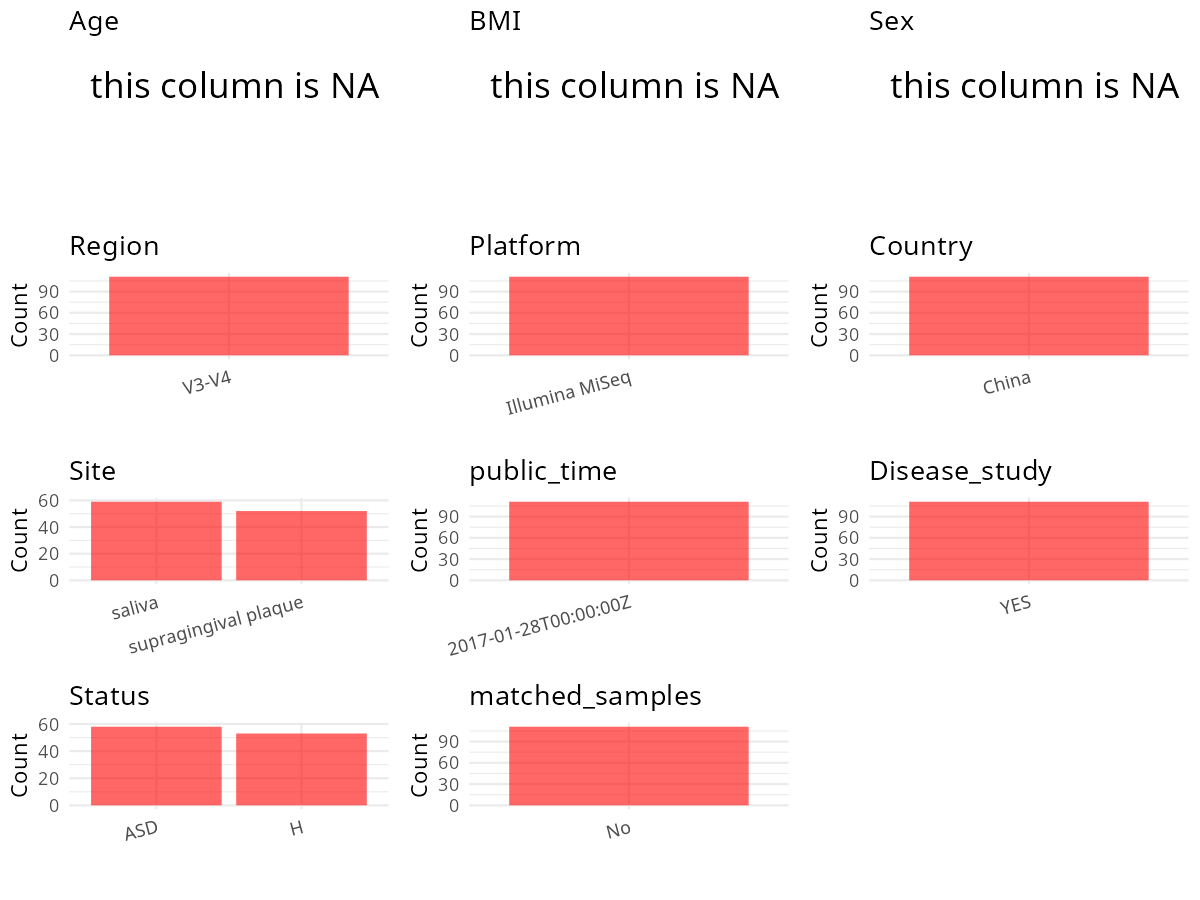
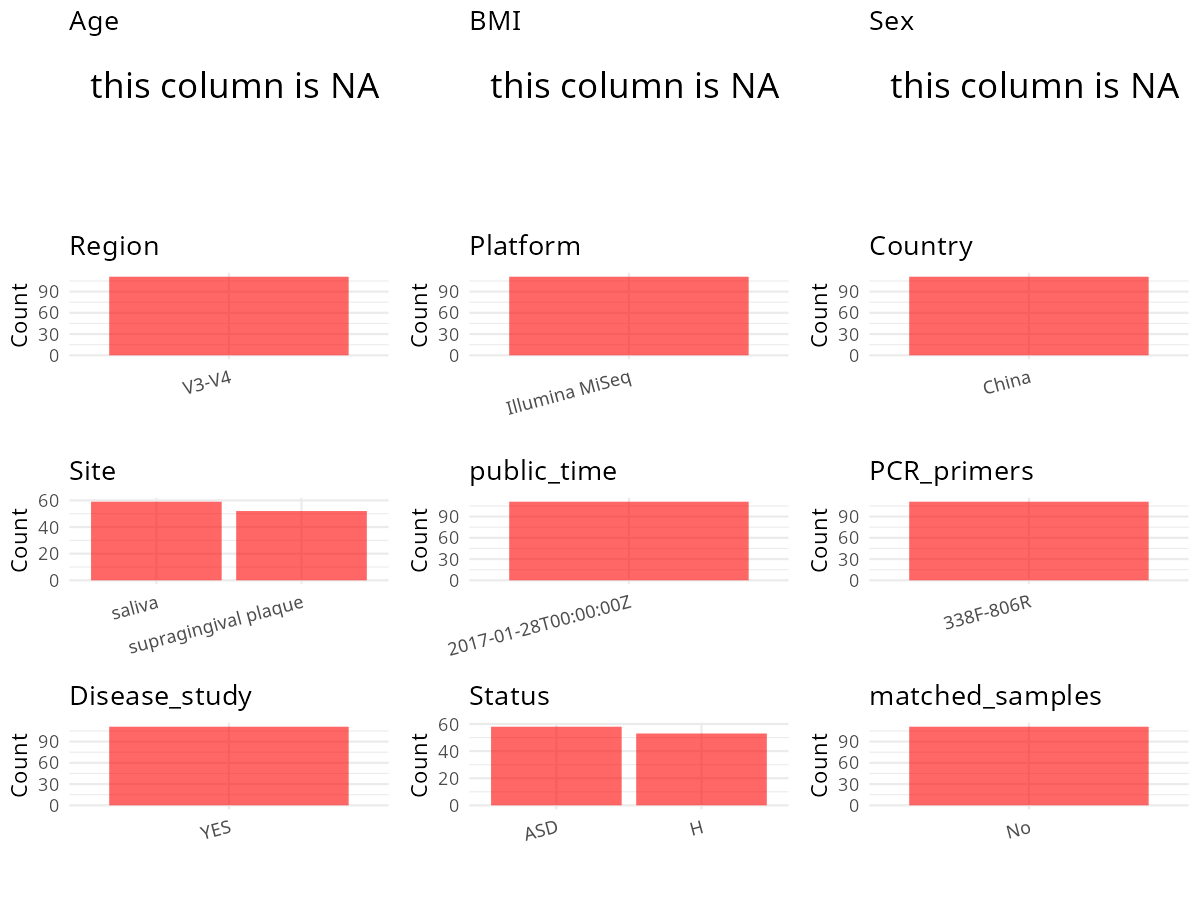
upload PRJNA362687

diff --git a/data/projects/PRJNA362687/metadata_curation.md b/data/projects/PRJNA362687/metadata_curation.md
@@ -108,7 +108,7 @@ manually extracted from the publication and added to the metadata.
 # Add information obtained from the publication
 metadata$Country <- "China"
 metadata$Region <- "V3-V4"
-metadata$PCR_primers <- "338F(5'-ACTCCTACGGGAGGCAGCA-3')-806R(5'-GGACTACHVGGGTWTCTAAT-3')"
+metadata$PCR_primers <- "338F-806R"
 metadata$title <- "Alterations of oral microbiota distinguish children with autism spectrum disorders from healthy controls"
 metadata$Disease_study <- "YES"
 metadata$matched_samples <- "No"
@@ -152,13 +152,13 @@ write.csv(metadata, file = "metadata.csv", quote = FALSE)
 head(metadata)
 ```
 
-    ##    BioProject        Run sample_name Age BMI Sex Region       Platform Country   Site          public_time                                                      PCR_primers
-    ## 1 PRJNA362687 SRR5196331     H33-Sal  NA  NA  NA  V3-V4 Illumina MiSeq   China saliva 2017-01-28T00:00:00Z 338F(5'-ACTCCTACGGGAGGCAGCA-3')-806R(5'-GGACTACHVGGGTWTCTAAT-3')
-    ## 2 PRJNA362687 SRR5196332     H32-Sal  NA  NA  NA  V3-V4 Illumina MiSeq   China saliva 2017-01-28T00:00:00Z 338F(5'-ACTCCTACGGGAGGCAGCA-3')-806R(5'-GGACTACHVGGGTWTCTAAT-3')
-    ## 3 PRJNA362687 SRR5196333     H31-Sal  NA  NA  NA  V3-V4 Illumina MiSeq   China saliva 2017-01-28T00:00:00Z 338F(5'-ACTCCTACGGGAGGCAGCA-3')-806R(5'-GGACTACHVGGGTWTCTAAT-3')
-    ## 4 PRJNA362687 SRR5196334     H30-Sal  NA  NA  NA  V3-V4 Illumina MiSeq   China saliva 2017-01-28T00:00:00Z 338F(5'-ACTCCTACGGGAGGCAGCA-3')-806R(5'-GGACTACHVGGGTWTCTAAT-3')
-    ## 5 PRJNA362687 SRR5196335     H29-Sal  NA  NA  NA  V3-V4 Illumina MiSeq   China saliva 2017-01-28T00:00:00Z 338F(5'-ACTCCTACGGGAGGCAGCA-3')-806R(5'-GGACTACHVGGGTWTCTAAT-3')
-    ## 6 PRJNA362687 SRR5196336     H28-Sal  NA  NA  NA  V3-V4 Illumina MiSeq   China saliva 2017-01-28T00:00:00Z 338F(5'-ACTCCTACGGGAGGCAGCA-3')-806R(5'-GGACTACHVGGGTWTCTAAT-3')
+    ##    BioProject        Run sample_name Age BMI Sex Region       Platform Country   Site          public_time PCR_primers
+    ## 1 PRJNA362687 SRR5196331     H33-Sal  NA  NA  NA  V3-V4 Illumina MiSeq   China saliva 2017-01-28T00:00:00Z   338F-806R
+    ## 2 PRJNA362687 SRR5196332     H32-Sal  NA  NA  NA  V3-V4 Illumina MiSeq   China saliva 2017-01-28T00:00:00Z   338F-806R
+    ## 3 PRJNA362687 SRR5196333     H31-Sal  NA  NA  NA  V3-V4 Illumina MiSeq   China saliva 2017-01-28T00:00:00Z   338F-806R
+    ## 4 PRJNA362687 SRR5196334     H30-Sal  NA  NA  NA  V3-V4 Illumina MiSeq   China saliva 2017-01-28T00:00:00Z   338F-806R
+    ## 5 PRJNA362687 SRR5196335     H29-Sal  NA  NA  NA  V3-V4 Illumina MiSeq   China saliva 2017-01-28T00:00:00Z   338F-806R
+    ## 6 PRJNA362687 SRR5196336     H28-Sal  NA  NA  NA  V3-V4 Illumina MiSeq   China saliva 2017-01-28T00:00:00Z   338F-806R
     ##                                                                                                      title Disease_study Status matched_samples
     ## 1 Alterations of oral microbiota distinguish children with autism spectrum disorders from healthy controls           YES      H              No
     ## 2 Alterations of oral microbiota distinguish children with autism spectrum disorders from healthy controls           YES      H              No
